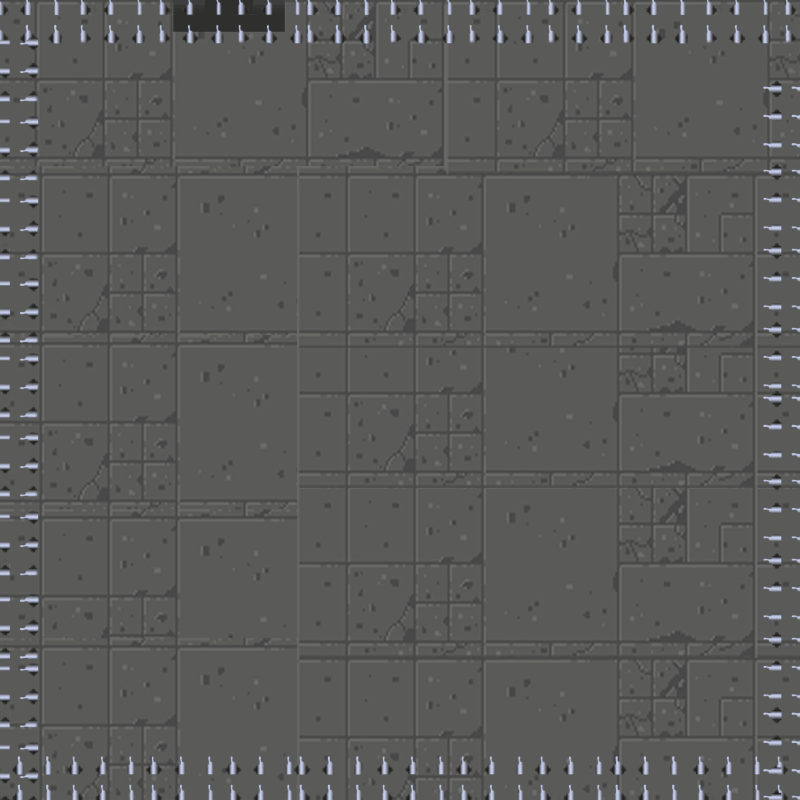
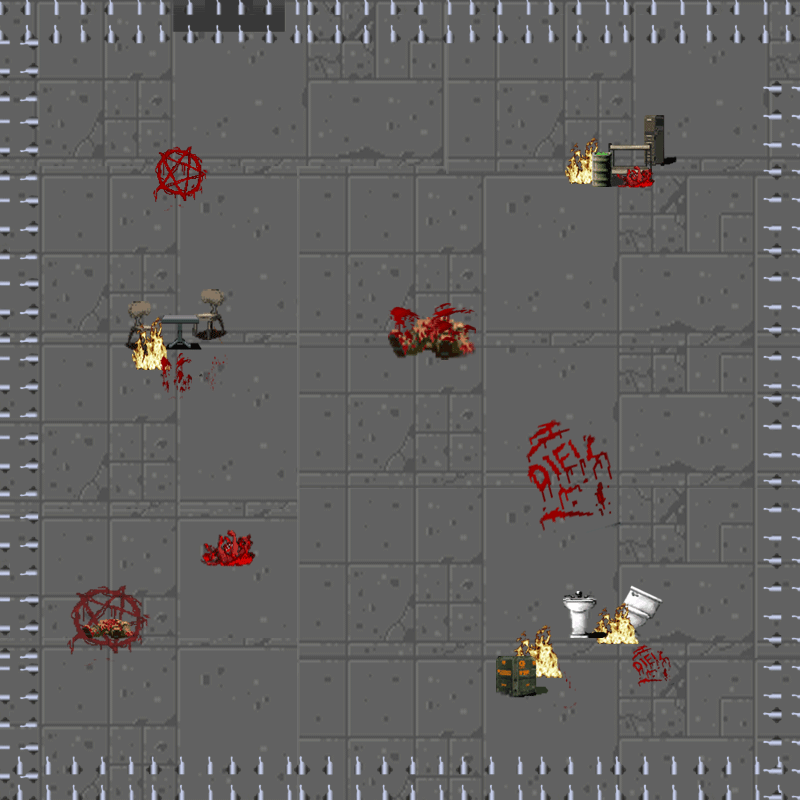
appartition des démons

diff --git a/demon.js b/demon.js
@@ -1,0 +1,22 @@
+addEnemies();
+function addEnemies(){
+    for (let i = 0; i < 5; i++) {
+        let div = document.createElement('div');
+        div.setAttribute('class', 'enemies')
+        div.setAttribute('id', 'enemy-'+i)
+        document.getElementById('gameContainer').appendChild(div);
+        positionEnemies(div);
+    }
+}
+function getRandomPosition(){
+    let randomX = Math.floor(Math.random()*24);
+    let randomY = Math.floor(Math.random()*24);
+    return[randomX,randomY];
+}
+function positionEnemies(enemy){
+    let randomPosition = getRandomPosition();
+    let x = randomPosition[0]*24;
+    let y = randomPosition[1]*24;
+    enemy.style.top = x + 'px';
+    enemy.style.left = y + 'px';
+}

diff --git a/style.css b/style.css
@@ -8,8 +8,8 @@
 }
 
 #player{
-    width: 150px;
-    height:150px;
+    width: 175px;
+    height:175px;
     background-image: url(assets/doomGuy/face-1.png);
     background-size: 100%;
     background-position:  center;
@@ -25,4 +25,13 @@
     position: absolute;
     background-repeat: no-repeat;
     background-size: cover;
+}
+
+.enemies{
+    width: 150px;
+    height: 150px;
+    background-image: url(assets/doomGuy/demon-2.png);
+    position: absolute;
+    background-size: cover;
+    background-position: center;
 }

diff --git a/index.php b/index.php
@@ -13,6 +13,8 @@
         <div id="bomb"></div>
     </div>
 <script src="main.js"></script>
+<script src="demon.js"></script>
+<script src="mouvDemon.js"></script>
 <script src="bomb.js"></script>
 </body>
 </html>
